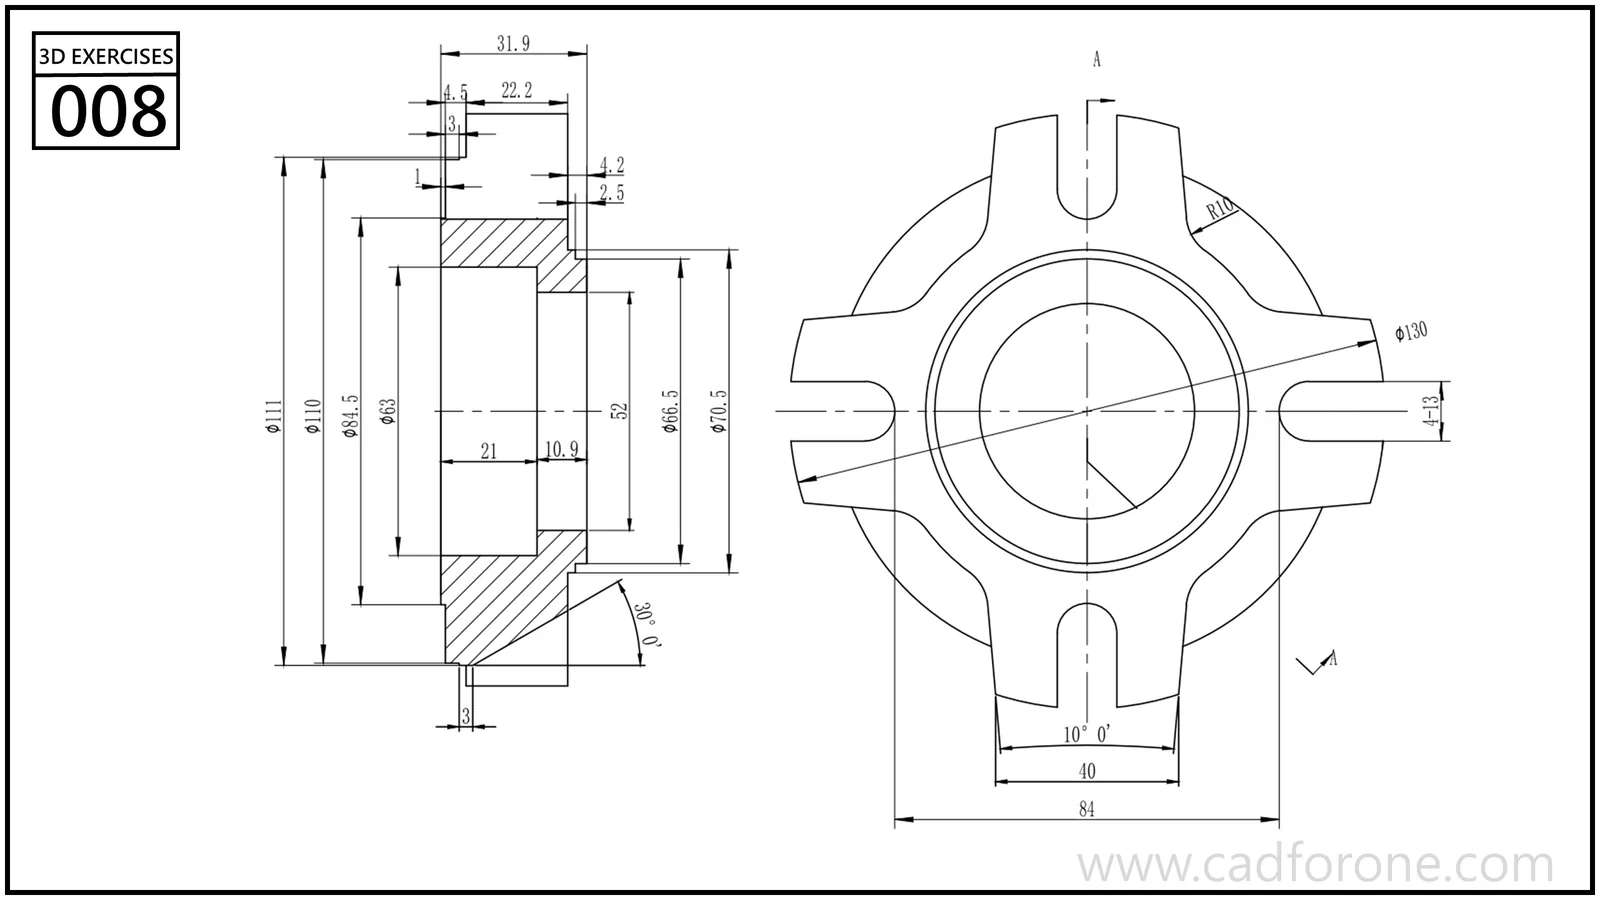
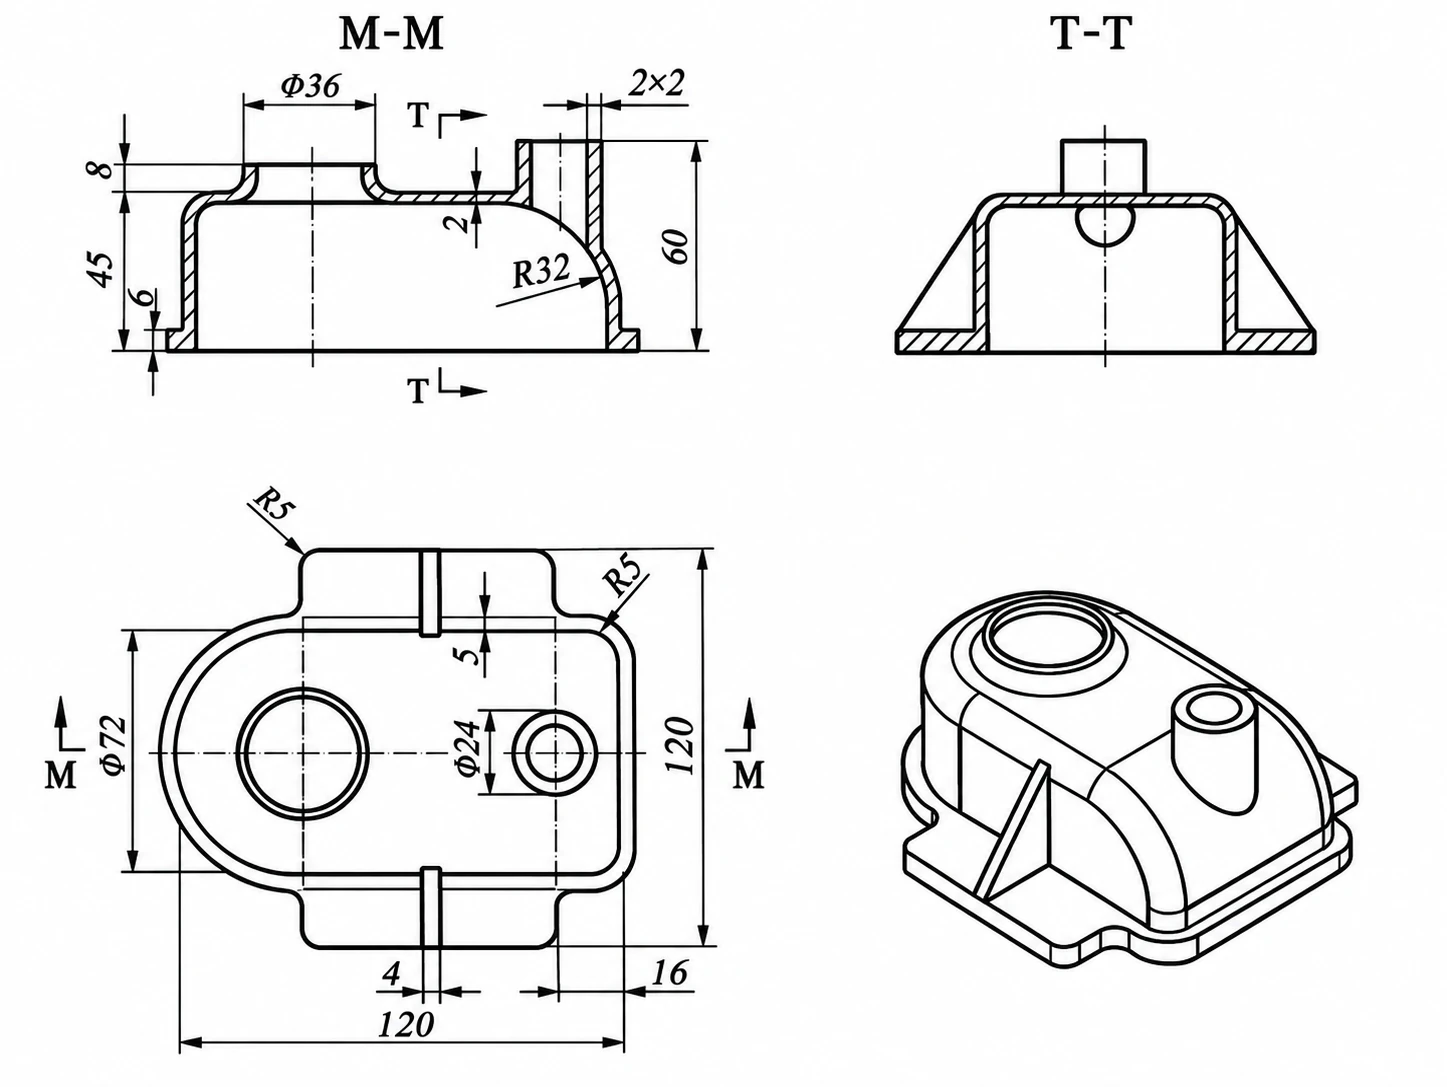
Replace exercise 008 with supplied housing drawing

diff --git a/content/drawings/3d-exercise-008/index.md b/content/drawings/3d-exercise-008/index.md
@@ -1,6 +1,6 @@
 ---
 title: "3D CAD Exercise 008"
-description: "3D CAD Exercise 008: A circular flanged body with four radial mounting arms and open-ended slots."
+description: "3D CAD Exercise 008: A hollow rounded housing with two raised circular openings, a base flange, and reinforcing ribs."
 draft: false
 slug: 3d-exercise-008
 drawing_id: CFO-0008
@@ -12,27 +12,27 @@ preview_image: drawing.webp
 tutorials: []
 model_files: []
 source:
-  name: "CAD for One — 3D CAD Exercises-008.webp"
+  name: "17.png"
 license:
   name: "Website display authorized by the site owner"
   website_display_allowed: true
   redistribution_allowed: false
-summary: "A circular flanged body with four radial mounting arms and open-ended slots."
+summary: "A hollow rounded housing with two raised circular openings, a base flange, and reinforcing ribs."
 images: [drawing.webp]
-image_alt: "3D CAD Exercise 008. A circular flanged body with four radial mounting arms and open-ended slots."
+image_alt: "3D CAD Exercise 008. A hollow rounded housing with two raised circular openings, a base flange, and reinforcing ribs."
 series_title: "3D CAD Exercises"
 series_path: "/drawings/3d/"
 ---
 
-A circular flanged body with four radial mounting arms and open-ended slots.
+A hollow rounded housing with two raised circular openings, a base flange, and reinforcing ribs.
 
-![3D CAD Exercise 008. A circular flanged body with four radial mounting arms and open-ended slots.](drawing.webp)
+![3D CAD Exercise 008. A hollow rounded housing with two raised circular openings, a base flange, and reinforcing ribs.](drawing.webp)
 
 <details class="cad-practice-notes">
 <summary>Practice notes</summary>
 
-- Use the section to establish the central bore and changes in thickness.
-- Build one mounting arm and slot, then check the radial arrangement in the front view.
+- Compare sections M-M and T-T to establish the wall thickness, raised openings, and base flange.
+- Use the plan and isometric views to check the rounded outline, reinforcing ribs, and opening positions.
 
 These are suggested reading checks, not a tested modeling tutorial.
 
